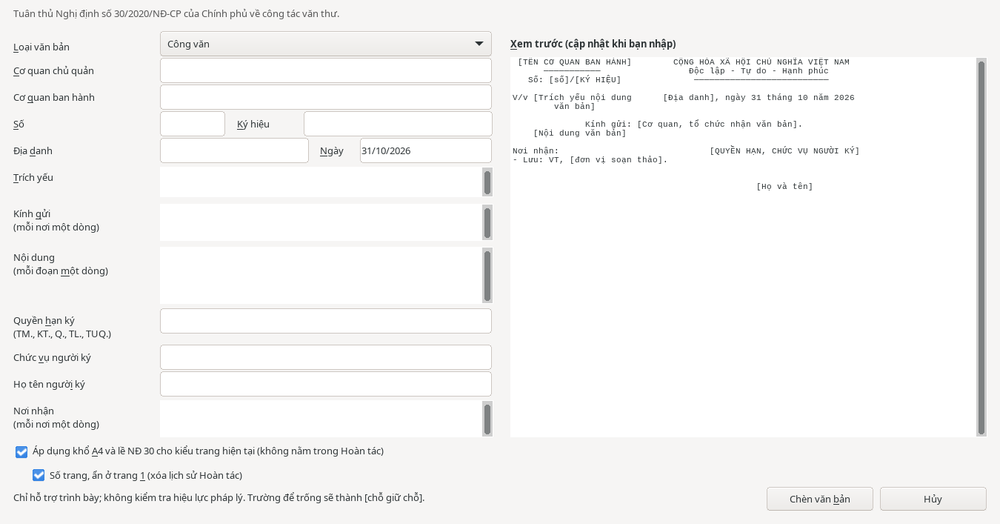
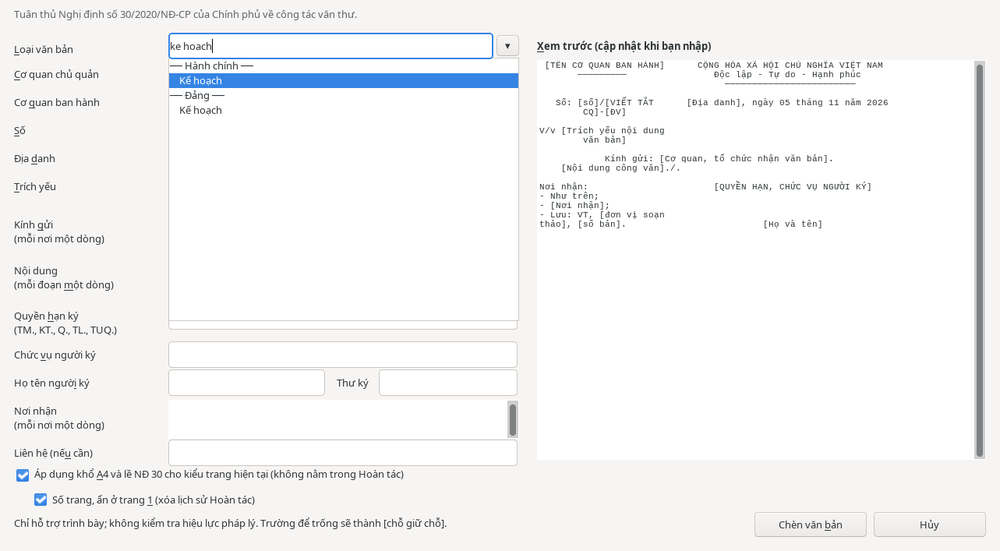
fix(wizard): the description and page option name the rules of the chosen type
The description now follows the profile of the type, and the help shows Quick Search.

diff --git a/extensions/hst-vietnamese-tools/help/nd30.html b/extensions/hst-vietnamese-tools/help/nd30.html
@@ -49,7 +49,7 @@
   <li>Điền <span class="menu">Quyền hạn ký</span> (TM., KT., Q., TL., TUQ.), <span class="menu">Chức vụ người ký</span> và <span class="menu">Họ tên người ký</span>.</li>
   <li>Điền <span class="menu">Nơi nhận (mỗi nơi một dòng)</span>. Dòng “Lưu: VT, …” được thêm nếu thiếu.</li>
 </ol>
-<figure><img src="images/nd30-wizard.png" alt="Hộp thoại Văn bản hành chính có các trường thông tin bên trái, bản xem trước công văn bên phải và nút Chèn văn bản phía dưới." loading="lazy" width="1000" height="524"><figcaption>Khung <span class="menu">Xem trước (cập nhật khi bạn nhập)</span> phản ánh thông tin bạn đang điền.</figcaption></figure>
+<figure><img src="images/nd30-wizard.png" alt="Hộp thoại Văn bản hành chính: ô Loại văn bản đang tìm ke hoach, danh sách lọc còn Kế hoạch ở nhóm Hành chính và Đảng; bên phải là bản xem trước, phía dưới là nút Chèn văn bản." loading="lazy" width="1000" height="551"><figcaption>Khung <span class="menu">Xem trước (cập nhật khi bạn nhập)</span> phản ánh thông tin bạn đang điền.</figcaption></figure>
 <h2 id="loai-van-ban">Các loại văn bản</h2>
 <ul>
   <li><strong>Hành chính</strong>: đủ 29 loại theo Điều 7 Nghị định 30/2020/NĐ-CP, phụ lục và bản sao. <span class="menu">Hợp đồng</span>, <span class="menu">Bản ghi nhớ</span>, <span class="menu">Bản thỏa thuận</span> và <span class="menu">Thư công</span> không có mẫu riêng trong Phụ lục III của Nghị định; bố cục theo thể thức chung, không mang số mẫu.</li>
@@ -65,7 +65,7 @@
 <p>Trường để trống sẽ hiện chỗ giữ chỗ trong ngoặc vuông, chẳng hạn <code>[Họ và tên]</code>, để bạn điền sau.</p>
 <h2 id="tuy-chon-trang">Chọn khổ giấy, lề và số trang</h2>
 <ul>
-  <li><span class="menu">Áp dụng khổ A4 và lề NĐ 30 cho kiểu trang hiện tại (không nằm trong Hoàn tác)</span>: đặt khổ A4, lề trên 20 mm, dưới 20 mm, trái 30 mm và phải 15 mm.</li>
+  <li><span class="menu">Áp dụng khổ A4 và lề theo thể thức của loại văn bản cho kiểu trang hiện tại (không nằm trong Hoàn tác)</span>: đặt khổ A4, lề trên 20 mm, dưới 20 mm, trái 30 mm và phải 15 mm; bộ số này hợp với cả ba thể thức. Thân trang bắt đầu đúng 20 mm ở mọi trang. Khối sao không đổi lề của văn bản đang mở.</li>
   <li><span class="menu">Số trang, ẩn ở trang 1 (xóa lịch sử Hoàn tác)</span>: đánh số ở giữa phía trên và không hiển thị số trên trang đầu.</li>
 </ul>
 <div class="note warn"><strong>Chú ý trước khi chọn:</strong> Thay đổi khổ giấy và lề không nằm trong <span class="menu">Hoàn tác</span>. Tùy chọn số trang xóa lịch sử <span class="menu">Hoàn tác</span>. Hãy cân nhắc các tùy chọn này trước khi chèn.</div>

diff --git a/extensions/hst-vietnamese-tools/python/hst_office/wizard_nd30.py b/extensions/hst-vietnamese-tools/python/hst_office/wizard_nd30.py
@@ -140,7 +140,9 @@ class Nd30Wizard:
         if errs:
             return False
         type_id, fields = self.read()
-        register = nd30.get_type(type_id, self.data).get("module") == "sheets"
+        kind = nd30.get_type(type_id, self.data)
+        self.d.model.getByName("description").Label = self.s_nd["descriptions"][kind["profile"]]
+        register = kind.get("module") == "sheets"
         self.d.model.getByName("btnOk").Label = self.s_nd["openSheet" if register else "insert"]
         if register:
             self.d.set_text("preview", self.s_nd["registerNote"])
